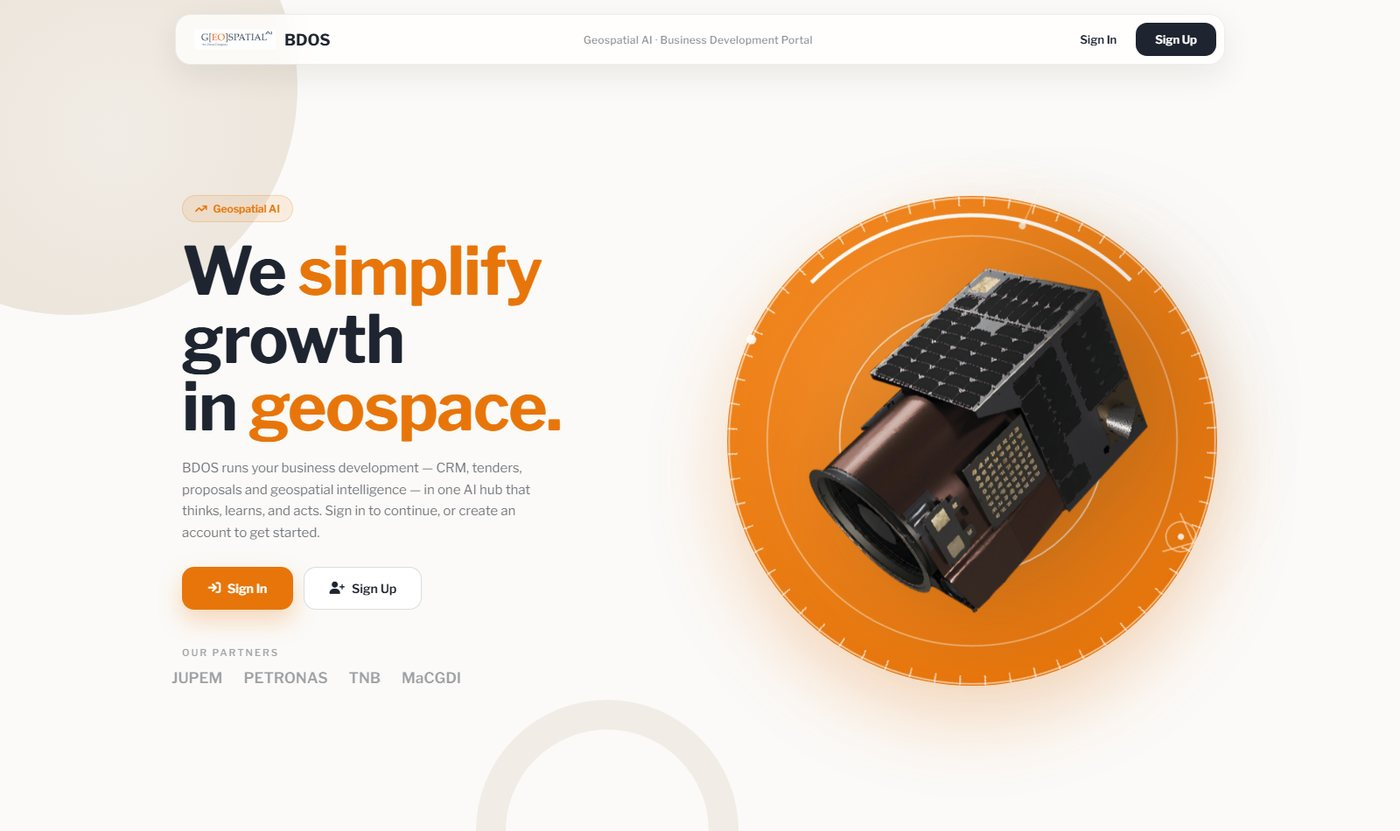
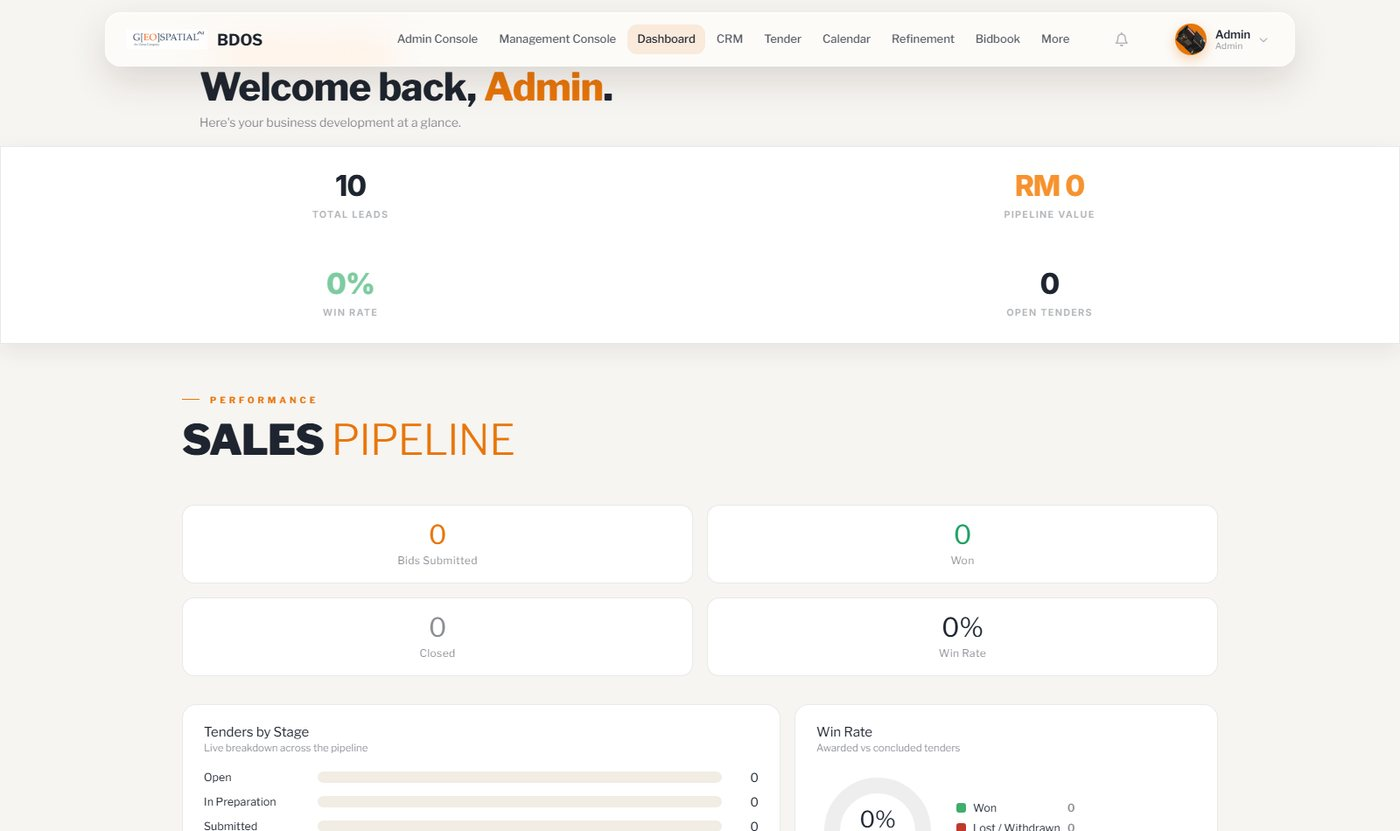
Fold the platforms into Website, add signed-in views, rework the Land Use item
The five Uzma Digital Earth sites now sit under the Website category and the
separate Geospatial Platform filter is gone.

BDOS, IoT and TerraVision were previously represented by their sign-in screens
only. All three are now captured signed in, so the showcase shows the actual
products. BDOS gains a full feature description drawn from the BDOS_V2_DEPLOY
source: CRM and pipeline, server-side lead qualification scoring, the tender
workspace through to bidbook, quotations, budget, AAR, calendar, news signal
feed, scoreboard, reporting and NFC card capture, on FastAPI and PostgreSQL
with Claude vision for card OCR, shipped by Docker and GitHub Actions to EC2.

The Land Use item drops every JUPEM reference, points at the public building
footprint demo and is re-shot against the new UI — 15,844 features over
Seremban, lot register, area navigation and PDF/PNG/GeoJSON/CSV export. Its
six superseded screenshots (11.6 MB) are removed.

diff --git a/showcase.html b/showcase.html
@@ -262,7 +262,6 @@ footer{background:var(--dark);color:#fff;padding:64px 9% 26px;}
 <div class="filter-bar">
   <div class="filter-inner">
     <button class="filter-btn active" data-filter="all">All</button>
-    <button class="filter-btn" data-filter="platform">Geospatial Platform</button>
     <button class="filter-btn" data-filter="design">Application</button>
     <button class="filter-btn" data-filter="photography">Website</button>
     <button class="filter-btn" data-filter="events">Animation</button>
@@ -277,8 +276,8 @@ footer{background:var(--dark);color:#fff;padding:64px 9% 26px;}
 <div class="showcase-main">
   <div class="masonry" id="gallery">
 
-    <!-- ─── UZMA DIGITAL EARTH — GEOSPATIAL PLATFORMS ─── -->
-    <div class="masonry-item reveal" data-cat="platform"
+    <!-- ─── UZMA DIGITAL EARTH — WEB PLATFORMS ─── -->
+    <div class="masonry-item reveal" data-cat="photography"
          data-pages="UDE_SHOW_1.jpg|UDE_SHOW_2.jpg|UDE_SHOW_3.jpg|UDE_SHOW_4.jpg|UDE_SHOW_5.jpg|UDE_SHOW_6.jpg|UDE_SHOW_7.jpg|UDE_SHOW_8.jpg"
          data-label="UZMA Digital Earth — Showcase"
          data-link="https://showcase.uzmadigitalearth.app/"
@@ -289,11 +288,11 @@ footer{background:var(--dark);color:#fff;padding:64px 9% 26px;}
         <div class="mi-overlay">
           <div class="mi-icon"><svg width="19" height="19" viewBox="0 0 24 24" fill="none" stroke="currentColor" stroke-width="2"><circle cx="11" cy="11" r="8"/><path d="m21 21-4.35-4.35"/></svg></div>
           <div class="mi-label">View Slideshow</div>
-          <div class="mi-cat-tag">Geospatial Platform</div>
+          <div class="mi-cat-tag">Website</div>
         </div>
       </div>
       <div class="mi-desc-panel">
-        <div class="mi-desc-cat">Geospatial Platform · Product Site</div>
+        <div class="mi-desc-cat">Website · Product Site</div>
         <div class="mi-desc-title">Geospatial AI — Earth Observation Showcase</div>
         <table class="mi-meta-table">
           <tr><td class="mi-meta-label">Software</td><td class="mi-meta-value">Visual Studio Code</td></tr>
@@ -309,7 +308,7 @@ footer{background:var(--dark);color:#fff;padding:64px 9% 26px;}
       </div>
     </div>
 
-    <div class="masonry-item reveal" data-cat="platform"
+    <div class="masonry-item reveal" data-cat="photography"
          data-pages="UDE_VISION_1.jpg|UDE_VISION_2.jpg|UDE_VISION_3.jpg|UDE_VISION_4.jpg|UDE_VISION_5.jpg"
          data-label="UZMA-Vision — Satellite Intelligence"
          data-link="https://vision.uzmadigitalearth.app/"
@@ -320,11 +319,11 @@ footer{background:var(--dark);color:#fff;padding:64px 9% 26px;}
         <div class="mi-overlay">
           <div class="mi-icon"><svg width="19" height="19" viewBox="0 0 24 24" fill="none" stroke="currentColor" stroke-width="2"><circle cx="11" cy="11" r="8"/><path d="m21 21-4.35-4.35"/></svg></div>
           <div class="mi-label">View Slideshow</div>
-          <div class="mi-cat-tag">Geospatial Platform</div>
+          <div class="mi-cat-tag">Website</div>
         </div>
       </div>
       <div class="mi-desc-panel">
-        <div class="mi-desc-cat">Geospatial Platform · WebGIS</div>
+        <div class="mi-desc-cat">Website · WebGIS</div>
         <div class="mi-desc-title">UZMA-Vision — Satellite Intelligence Platform</div>
         <table class="mi-meta-table">
           <tr><td class="mi-meta-label">Framework</td><td class="mi-meta-value">Next.js · React</td></tr>
@@ -340,29 +339,31 @@ footer{background:var(--dark);color:#fff;padding:64px 9% 26px;}
       </div>
     </div>
 
-    <div class="masonry-item reveal" data-cat="platform"
-         data-pages="UDE_BDOS_1.jpg"
+    <div class="masonry-item reveal" data-cat="photography"
+         data-pages="UDE_BDOS_1.jpg|UDE_BDOS_2.jpg|UDE_BDOS_3.jpg|UDE_BDOS_4.jpg|UDE_BDOS_5.jpg|UDE_BDOS_6.jpg"
          data-label="BDOS — Business Development Portal"
          data-link="https://bdos.uzmadigitalearth.app/"
          data-link-label="Visit Live Site">
       <div class="mi-media">
         <img src="UDE_BDOS_1.jpg" alt="BDOS — Business Development Portal">
-        
+        <div class="mi-badge">6 pages</div>
         <div class="mi-overlay">
           <div class="mi-icon"><svg width="19" height="19" viewBox="0 0 24 24" fill="none" stroke="currentColor" stroke-width="2"><circle cx="11" cy="11" r="8"/><path d="m21 21-4.35-4.35"/></svg></div>
-          <div class="mi-label">View Image</div>
-          <div class="mi-cat-tag">Geospatial Platform</div>
+          <div class="mi-label">View Slideshow</div>
+          <div class="mi-cat-tag">Website</div>
         </div>
       </div>
       <div class="mi-desc-panel">
-        <div class="mi-desc-cat">Geospatial Platform · Business Portal</div>
+        <div class="mi-desc-cat">Website · Business Platform</div>
         <div class="mi-desc-title">BDOS — Business Development Operating System</div>
         <table class="mi-meta-table">
-          <tr><td class="mi-meta-label">Software</td><td class="mi-meta-value">Visual Studio Code</td></tr>
-          <tr><td class="mi-meta-label">Language</td><td class="mi-meta-value">HTML · CSS · JavaScript · jQuery</td></tr>
-          <tr><td class="mi-meta-label">Modules</td><td class="mi-meta-value">Auth · Database · CRM · Pipeline · Tasks</td></tr>
-          <tr><td class="mi-meta-label">Partners</td><td class="mi-meta-value">JUPEM · PETRONAS · TNB · MaCGDI</td></tr>
-          <tr><td class="mi-meta-label">Description</td><td class="mi-meta-value desc">A business development portal for Geospatial AI that brings CRM, tenders, proposals and geospatial intelligence into a single hub. The dashboard behind sign-in covers pipeline, projects, tasks and activity. Shown here is the public landing page.</td></tr>
+          <tr><td class="mi-meta-label">Frontend</td><td class="mi-meta-value">HTML · CSS · JavaScript (25 modules)</td></tr>
+          <tr><td class="mi-meta-label">Backend</td><td class="mi-meta-value">Python · FastAPI · Uvicorn</td></tr>
+          <tr><td class="mi-meta-label">Database</td><td class="mi-meta-value">AWS PostgreSQL · psycopg2 pooling</td></tr>
+          <tr><td class="mi-meta-label">Auth</td><td class="mi-meta-value">JWT · bcrypt password hashing</td></tr>
+          <tr><td class="mi-meta-label">AI</td><td class="mi-meta-value">Claude vision — business-card OCR</td></tr>
+          <tr><td class="mi-meta-label">Deployment</td><td class="mi-meta-value">Docker · GitHub Actions → EC2</td></tr>
+          <tr><td class="mi-meta-label">Description</td><td class="mi-meta-value desc">A full business-development operating system for Geospatial AI, replacing scattered spreadsheets with one hub. <strong>CRM</strong> tracks leads, contacts and the opportunity pipeline through prospecting → qualification → proposal → negotiation → won. <strong>Qualification</strong> scores every discovery entry server-side against five criteria (named decision, decision maker, budget, procurement route, urgency) for a 0–10 score, with red flags such as &ldquo;no decision maker&rdquo; or &ldquo;send proposal first&rdquo;. <strong>Tender Hub</strong> carries a tender from workspace to to-do list, strategy-to-win, AI-assisted proposal drafting and the bidbook. Plus quotations, budget, after-action reviews, a BD calendar, a daily news signal feed across Malaysian business media, a team scoreboard, live reporting with PDF/CSV export, NFC business-card capture and an admin console. Backed by a 14-table PostgreSQL schema and a 34-route FastAPI service shaped to mirror the previous Firebase API, so the front end migrated with a one-line base-URL change.</td></tr>
         </table>
         <a href="https://bdos.uzmadigitalearth.app/" target="_blank" rel="noopener" class="mi-desc-link">
           <svg width="11" height="11" viewBox="0 0 24 24" fill="none" stroke="currentColor" stroke-width="2.5"><path d="M18 13v6a2 2 0 0 1-2 2H5a2 2 0 0 1-2-2V8a2 2 0 0 1 2-2h6"/><polyline points="15 3 21 3 21 9"/><line x1="10" y1="14" x2="21" y2="3"/></svg>
@@ -371,29 +372,30 @@ footer{background:var(--dark);color:#fff;padding:64px 9% 26px;}
       </div>
     </div>
 
-    <div class="masonry-item reveal" data-cat="platform"
-         data-pages="UDE_IOT_1.jpg"
+    <div class="masonry-item reveal" data-cat="photography"
+         data-pages="UDE_IOT_1.jpg|UDE_IOT_2.jpg"
          data-label="UZMA Digital Earth — IoT Monitoring"
          data-link="https://iot.uzmadigitalearth.app/"
          data-link-label="Visit Live Site">
       <div class="mi-media">
         <img src="UDE_IOT_1.jpg" alt="UZMA Digital Earth — IoT Monitoring">
-        
+        <div class="mi-badge">2 pages</div>
         <div class="mi-overlay">
           <div class="mi-icon"><svg width="19" height="19" viewBox="0 0 24 24" fill="none" stroke="currentColor" stroke-width="2"><circle cx="11" cy="11" r="8"/><path d="m21 21-4.35-4.35"/></svg></div>
-          <div class="mi-label">View Image</div>
-          <div class="mi-cat-tag">Geospatial Platform</div>
+          <div class="mi-label">View Slideshow</div>
+          <div class="mi-cat-tag">Website</div>
         </div>
       </div>
       <div class="mi-desc-panel">
-        <div class="mi-desc-cat">Geospatial Platform · IoT Telemetry</div>
+        <div class="mi-desc-cat">Website · IoT Telemetry</div>
         <div class="mi-desc-title">Digital Earth — IoT Device Monitoring</div>
         <table class="mi-meta-table">
           <tr><td class="mi-meta-label">Build Tool</td><td class="mi-meta-value">Vite</td></tr>
           <tr><td class="mi-meta-label">Server</td><td class="mi-meta-value">Node.js · Express</td></tr>
           <tr><td class="mi-meta-label">Database</td><td class="mi-meta-value">AWS · PostgreSQL (SSL)</td></tr>
-          <tr><td class="mi-meta-label">Purpose</td><td class="mi-meta-value">Real-time sensor telemetry</td></tr>
-          <tr><td class="mi-meta-label">Description</td><td class="mi-meta-value desc">A monitoring platform for real-time IoT device telemetry, geospatial analytics and live environmental data, visualised on an interactive map and stored on AWS. Built with partner TSGN. The platform sits behind sign-in — shown here is the authentication screen.</td></tr>
+          <tr><td class="mi-meta-label">Map</td><td class="mi-meta-value">MapLibre GL JS · Google Satellite</td></tr>
+          <tr><td class="mi-meta-label">Layers</td><td class="mi-meta-value">Area of Interest · Topography · DEM Hillshade · Temp Heatmap · NDVI · 2D Contour</td></tr>
+          <tr><td class="mi-meta-label">Description</td><td class="mi-meta-value desc">A monitoring platform for real-time IoT device telemetry, geospatial analytics and live environmental data, built with partner TSGN. Devices report temperature, humidity and battery voltage on an interactive map of Malaysia, with toggleable analysis layers (hillshade, temperature heatmap, NDVI vegetation, contours), a device register, alert rules and data export. Records are stored on AWS PostgreSQL over SSL.</td></tr>
         </table>
         <a href="https://iot.uzmadigitalearth.app/" target="_blank" rel="noopener" class="mi-desc-link">
           <svg width="11" height="11" viewBox="0 0 24 24" fill="none" stroke="currentColor" stroke-width="2.5"><path d="M18 13v6a2 2 0 0 1-2 2H5a2 2 0 0 1-2-2V8a2 2 0 0 1 2-2h6"/><polyline points="15 3 21 3 21 9"/><line x1="10" y1="14" x2="21" y2="3"/></svg>
@@ -402,29 +404,29 @@ footer{background:var(--dark);color:#fff;padding:64px 9% 26px;}
       </div>
     </div>
 
-    <div class="masonry-item reveal" data-cat="platform"
-         data-pages="UDE_TERRA_1.jpg"
+    <div class="masonry-item reveal" data-cat="photography"
+         data-pages="UDE_TERRA_1.jpg|UDE_TERRA_2.jpg|UDE_TERRA_3.jpg|UDE_TERRA_4.jpg"
          data-label="UZMATerraVision — Soil Correlation"
          data-link="https://terravision.uzmadigitalearth.app/"
          data-link-label="Visit Live Site">
       <div class="mi-media">
         <img src="UDE_TERRA_1.jpg" alt="UZMATerraVision — Soil Correlation">
-        
+        <div class="mi-badge">4 pages</div>
         <div class="mi-overlay">
           <div class="mi-icon"><svg width="19" height="19" viewBox="0 0 24 24" fill="none" stroke="currentColor" stroke-width="2"><circle cx="11" cy="11" r="8"/><path d="m21 21-4.35-4.35"/></svg></div>
-          <div class="mi-label">View Image</div>
-          <div class="mi-cat-tag">Geospatial Platform</div>
+          <div class="mi-label">View Slideshow</div>
+          <div class="mi-cat-tag">Website</div>
         </div>
       </div>
       <div class="mi-desc-panel">
-        <div class="mi-desc-cat">Geospatial Platform · Soil Survey</div>
+        <div class="mi-desc-cat">Website · Soil Survey</div>
         <div class="mi-desc-title">UZMATerraVision — Soil Correlation Platform</div>
         <table class="mi-meta-table">
           <tr><td class="mi-meta-label">Framework</td><td class="mi-meta-value">Next.js · React</td></tr>
           <tr><td class="mi-meta-label">Access</td><td class="mi-meta-value">Authenticated survey officers</td></tr>
-          <tr><td class="mi-meta-label">Project</td><td class="mi-meta-value">1/2026 Pontian, Johor</td></tr>
-          <tr><td class="mi-meta-label">Goal</td><td class="mi-meta-value">Toward sustainable peat management</td></tr>
-          <tr><td class="mi-meta-label">Description</td><td class="mi-meta-value desc">A soil correlation platform for field survey records, built for the Pontian, Johor peat management programme. Officers sign in to reach and correlate their survey data. The platform sits behind sign-in — shown here is the authentication screen.</td></tr>
+          <tr><td class="mi-meta-label">Project</td><td class="mi-meta-value">1/2026 Pontian, Johor — peat management</td></tr>
+          <tr><td class="mi-meta-label">Modules</td><td class="mi-meta-value">Dashboard · Pedons · Pedon Map · Reports · Reference</td></tr>
+          <tr><td class="mi-meta-label">Description</td><td class="mi-meta-value desc">A field platform for soil correlation surveys. Officers register each <strong>pedon</strong> — a soil profile — then work it through a guided flow: general details, a Munsell colour reading taken from a photo, and lab results, with progress tracked per profile as pending or done. A pedon map plots every profile on satellite imagery, and a reference module holds the vocabularies the survey is scored against: oil palm suitability classes, pH reaction bands, peat categories by loss on ignition, land use, drainage, parent material, topography, substratum and horizons. The API applies those same rules server-side on save, so classification stays consistent.</td></tr>
         </table>
         <a href="https://terravision.uzmadigitalearth.app/" target="_blank" rel="noopener" class="mi-desc-link">
           <svg width="11" height="11" viewBox="0 0 24 24" fill="none" stroke="currentColor" stroke-width="2.5"><path d="M18 13v6a2 2 0 0 1-2 2H5a2 2 0 0 1-2-2V8a2 2 0 0 1 2-2h6"/><polyline points="15 3 21 3 21 9"/><line x1="10" y1="14" x2="21" y2="3"/></svg>
@@ -551,10 +553,12 @@ footer{background:var(--dark);color:#fff;padding:64px 9% 26px;}
     </div>
 
     <div class="masonry-item reveal" data-cat="photography"
-         data-pages="LUW1.png|LUW2.png|LUW3.png|LUW4.png|LUW5.png|LUW6.png"
-         data-label="LandUse Website (JUPEM)">
+         data-pages="UDE_LU_1.jpg|UDE_LU_2.jpg|UDE_LU_3.jpg|UDE_LU_4.jpg|UDE_LU_5.jpg|UDE_LU_6.jpg"
+         data-label="Land Use Dashboard — Seremban"
+         data-link="https://uzma-geospatial-ai.github.io/building_footprint_demo/"
+         data-link-label="Open Live Demo">
       <div class="mi-media">
-        <img src="LUW1.png" alt="LandUse Website (JUPEM)">
+        <img src="UDE_LU_1.jpg" alt="Land Use Dashboard — Seremban">
         <div class="mi-badge">6 pages</div>
         <div class="mi-overlay">
           <div class="mi-icon"><svg width="19" height="19" viewBox="0 0 24 24" fill="none" stroke="currentColor" stroke-width="2"><circle cx="11" cy="11" r="8"/><path d="m21 21-4.35-4.35"/></svg></div>
@@ -564,17 +568,20 @@ footer{background:var(--dark);color:#fff;padding:64px 9% 26px;}
       </div>
       <div class="mi-desc-panel">
         <div class="mi-desc-cat">Website · Geospatial Dashboard</div>
-        <div class="mi-desc-title">LandUse Website (JUPEM)</div>
+        <div class="mi-desc-title">Land Use &amp; Building Footprint Dashboard</div>
         <table class="mi-meta-table">
-          <tr><td class="mi-meta-label">Software</td><td class="mi-meta-value">Visual Studio Code · Docker · CMD · PowerShell</td></tr>
-          <tr><td class="mi-meta-label">Language</td><td class="mi-meta-value">HTML · CSS · JavaScript · CMD Commands · PowerShell Scripting</td></tr>
-          <tr><td class="mi-meta-label">Map Library</td><td class="mi-meta-value">MapLibre · GL · JS</td></tr>
-          <tr><td class="mi-meta-label">Basemap Source</td><td class="mi-meta-value">Google Maps Tile Service (XYZ) · OpenStreetMap (Nominatim)</td></tr>
-          <tr><td class="mi-meta-label">Proprietary Data</td><td class="mi-meta-value">UZMA-sat — GDAL2tiles raster imagery (TMS · 0.7m/pixel · Seremban)</td></tr>
-          <tr><td class="mi-meta-label">Spatial Format</td><td class="mi-meta-value">GeoJSON · UTM → WGS84 coordinate conversion</td></tr>
-          <tr><td class="mi-meta-label">Export</td><td class="mi-meta-value">jsPDF · html2canvas — PDF report, PNG, GeoJSON, CSV</td></tr>
-          <tr><td class="mi-meta-label">Description</td><td class="mi-meta-value desc">An interactive geospatial land use dashboard built for demo to client that is JUPEM with integrating proprietary satellite imagery and put the real satellite image from UZMA-Sat1, multi-dataset GeoJSON rendering, lot selection, and PDF, Image, CSV, GeoJSON export into a single-file web application.</td></tr>
+          <tr><td class="mi-meta-label">Software</td><td class="mi-meta-value">Visual Studio Code · Docker</td></tr>
+          <tr><td class="mi-meta-label">Language</td><td class="mi-meta-value">HTML · CSS · JavaScript</td></tr>
+          <tr><td class="mi-meta-label">Map Library</td><td class="mi-meta-value">MapLibre GL JS 4.7 · PMTiles 3.0</td></tr>
+          <tr><td class="mi-meta-label">Analysis</td><td class="mi-meta-value">Turf.js — spatial queries &amp; area selection</td></tr>
+          <tr><td class="mi-meta-label">Spatial Format</td><td class="mi-meta-value">GeoJSON · UTM → WGS84 conversion</td></tr>
+          <tr><td class="mi-meta-label">Export</td><td class="mi-meta-value">jsPDF · html2canvas — PDF, PNG, GeoJSON, CSV</td></tr>
+          <tr><td class="mi-meta-label">Description</td><td class="mi-meta-value desc">An interactive land use and building footprint dashboard covering <strong>15,844 mapped features</strong> across Seremban, Negeri Sembilan, served from proprietary UzmaSat-1 raster tiles. Layers cover buildings and structures, land use, topography, hydrography, transportation, administrative boundaries, utilities and a places gazetteer. Users can select a lot for its full record, plot markers, jump between areas (Seremban Town, Rasah Jaya, Nilai, Bahau, Tampin, Port Dickson, Mantin), browse the searchable lot register with geocoded addresses and centroids, review an analysis panel with distribution by postcode, and export the result as a PDF report, image, GeoJSON or CSV.</td></tr>
         </table>
+        <a href="https://uzma-geospatial-ai.github.io/building_footprint_demo/" target="_blank" rel="noopener" class="mi-desc-link">
+          <svg width="11" height="11" viewBox="0 0 24 24" fill="none" stroke="currentColor" stroke-width="2.5"><path d="M18 13v6a2 2 0 0 1-2 2H5a2 2 0 0 1-2-2V8a2 2 0 0 1 2-2h6"/><polyline points="15 3 21 3 21 9"/><line x1="10" y1="14" x2="21" y2="3"/></svg>
+          Open Live Demo
+        </a>
       </div>
     </div>
 

diff --git a/index.html b/index.html
@@ -805,17 +805,20 @@ footer{background:var(--dark);color:#fff;padding:64px 9% 26px;}
       </div>
     </div>
 
-    <!-- 4 · LandUse JUPEM -->
+    <!-- 4 · Land Use Dashboard -->
     <div class="wk-card reveal">
       <div class="wk-thumb">
-        <img src="LUW1.png" alt="LandUse Website JUPEM">
+        <img src="UDE_LU_1.jpg" alt="Land Use and Building Footprint Dashboard">
         <span class="wk-badge">Geospatial</span><span class="wk-year">2026</span>
       </div>
       <div class="wk-body">
-        <div class="wk-title">LandUse Dashboard — JUPEM Demo</div>
-        <div class="wk-desc">An interactive geospatial land use dashboard built as a client demo for JUPEM, integrating real UZMA-Sat1 satellite imagery, multi-dataset GeoJSON rendering, lot selection, and PDF / PNG / CSV / GeoJSON export in a single-file web application.</div>
-        <div class="wk-tech"><span>MapLibre GL JS</span><span>GeoJSON</span><span>GDAL2tiles</span><span>jsPDF</span><span>Docker</span></div>
-        <div class="wk-links"><a class="wk-link" href="showcase.html?filter=photography">View Showcase</a></div>
+        <div class="wk-title">Land Use &amp; Building Footprint Dashboard</div>
+        <div class="wk-desc">An interactive land use dashboard covering 15,844 mapped features across Seremban, served from proprietary UzmaSat-1 raster tiles — with lot selection, area navigation, a searchable lot register, and PDF / PNG / GeoJSON / CSV export.</div>
+        <div class="wk-tech"><span>MapLibre GL JS</span><span>PMTiles</span><span>Turf.js</span><span>GeoJSON</span><span>jsPDF</span></div>
+        <div class="wk-links">
+          <a class="wk-link" href="showcase.html?filter=photography">View Showcase</a>
+          <a class="wk-link" href="https://uzma-geospatial-ai.github.io/building_footprint_demo/" target="_blank" rel="noopener"><svg viewBox="0 0 24 24" fill="none" stroke="currentColor" stroke-width="2.5"><path d="M18 13v6a2 2 0 0 1-2 2H5a2 2 0 0 1-2-2V8a2 2 0 0 1 2-2h6"/><polyline points="15 3 21 3 21 9"/><line x1="10" y1="14" x2="21" y2="3"/></svg>Live Demo</a>
+        </div>
       </div>
     </div>
 
@@ -920,7 +923,7 @@ footer{background:var(--dark);color:#fff;padding:64px 9% 26px;}
         <span class="tl-year">2026</span>
         <div class="tl-title">Web &amp; Geospatial Developer</div>
         <div class="tl-org">UZMA Berhad — Geospatial AI</div>
-        <div class="tl-desc">Build and ship the Uzma Digital Earth web platforms for the Geospatial AI division — the public Earth&nbsp;Observation showcase site, the UZMA-Vision satellite intelligence WebGIS, the BDOS business development portal, the IoT device-monitoring platform and UZMATerraVision for soil correlation. Also delivered the AI Interview platform on the Gemini API, the satellite imagery marketplace with full API documentation, and the LandUse dashboard demo for JUPEM using real UzmaSat-1 imagery.</div>
+        <div class="tl-desc">Build and ship the Uzma Digital Earth web platforms for the Geospatial AI division — the public Earth&nbsp;Observation showcase site, the UZMA-Vision satellite intelligence WebGIS, the BDOS business development portal, the IoT device-monitoring platform and UZMATerraVision for soil correlation. Also delivered the AI Interview platform on the Gemini API, the satellite imagery marketplace with full API documentation, and the Land Use &amp; Building Footprint dashboard over Seremban using real UzmaSat-1 imagery.</div>
         <div class="tl-tags"><span class="tl-tag">Next.js / React</span><span class="tl-tag">MapLibre GL JS</span><span class="tl-tag">Leaflet</span><span class="tl-tag">PMTiles</span><span class="tl-tag">GeoJSON</span><span class="tl-tag">Node.js / Express</span><span class="tl-tag">PostgreSQL</span><span class="tl-tag">AWS</span><span class="tl-tag">Cloudflare</span><span class="tl-tag">Gemini API</span></div>
       </div>
     </div>
